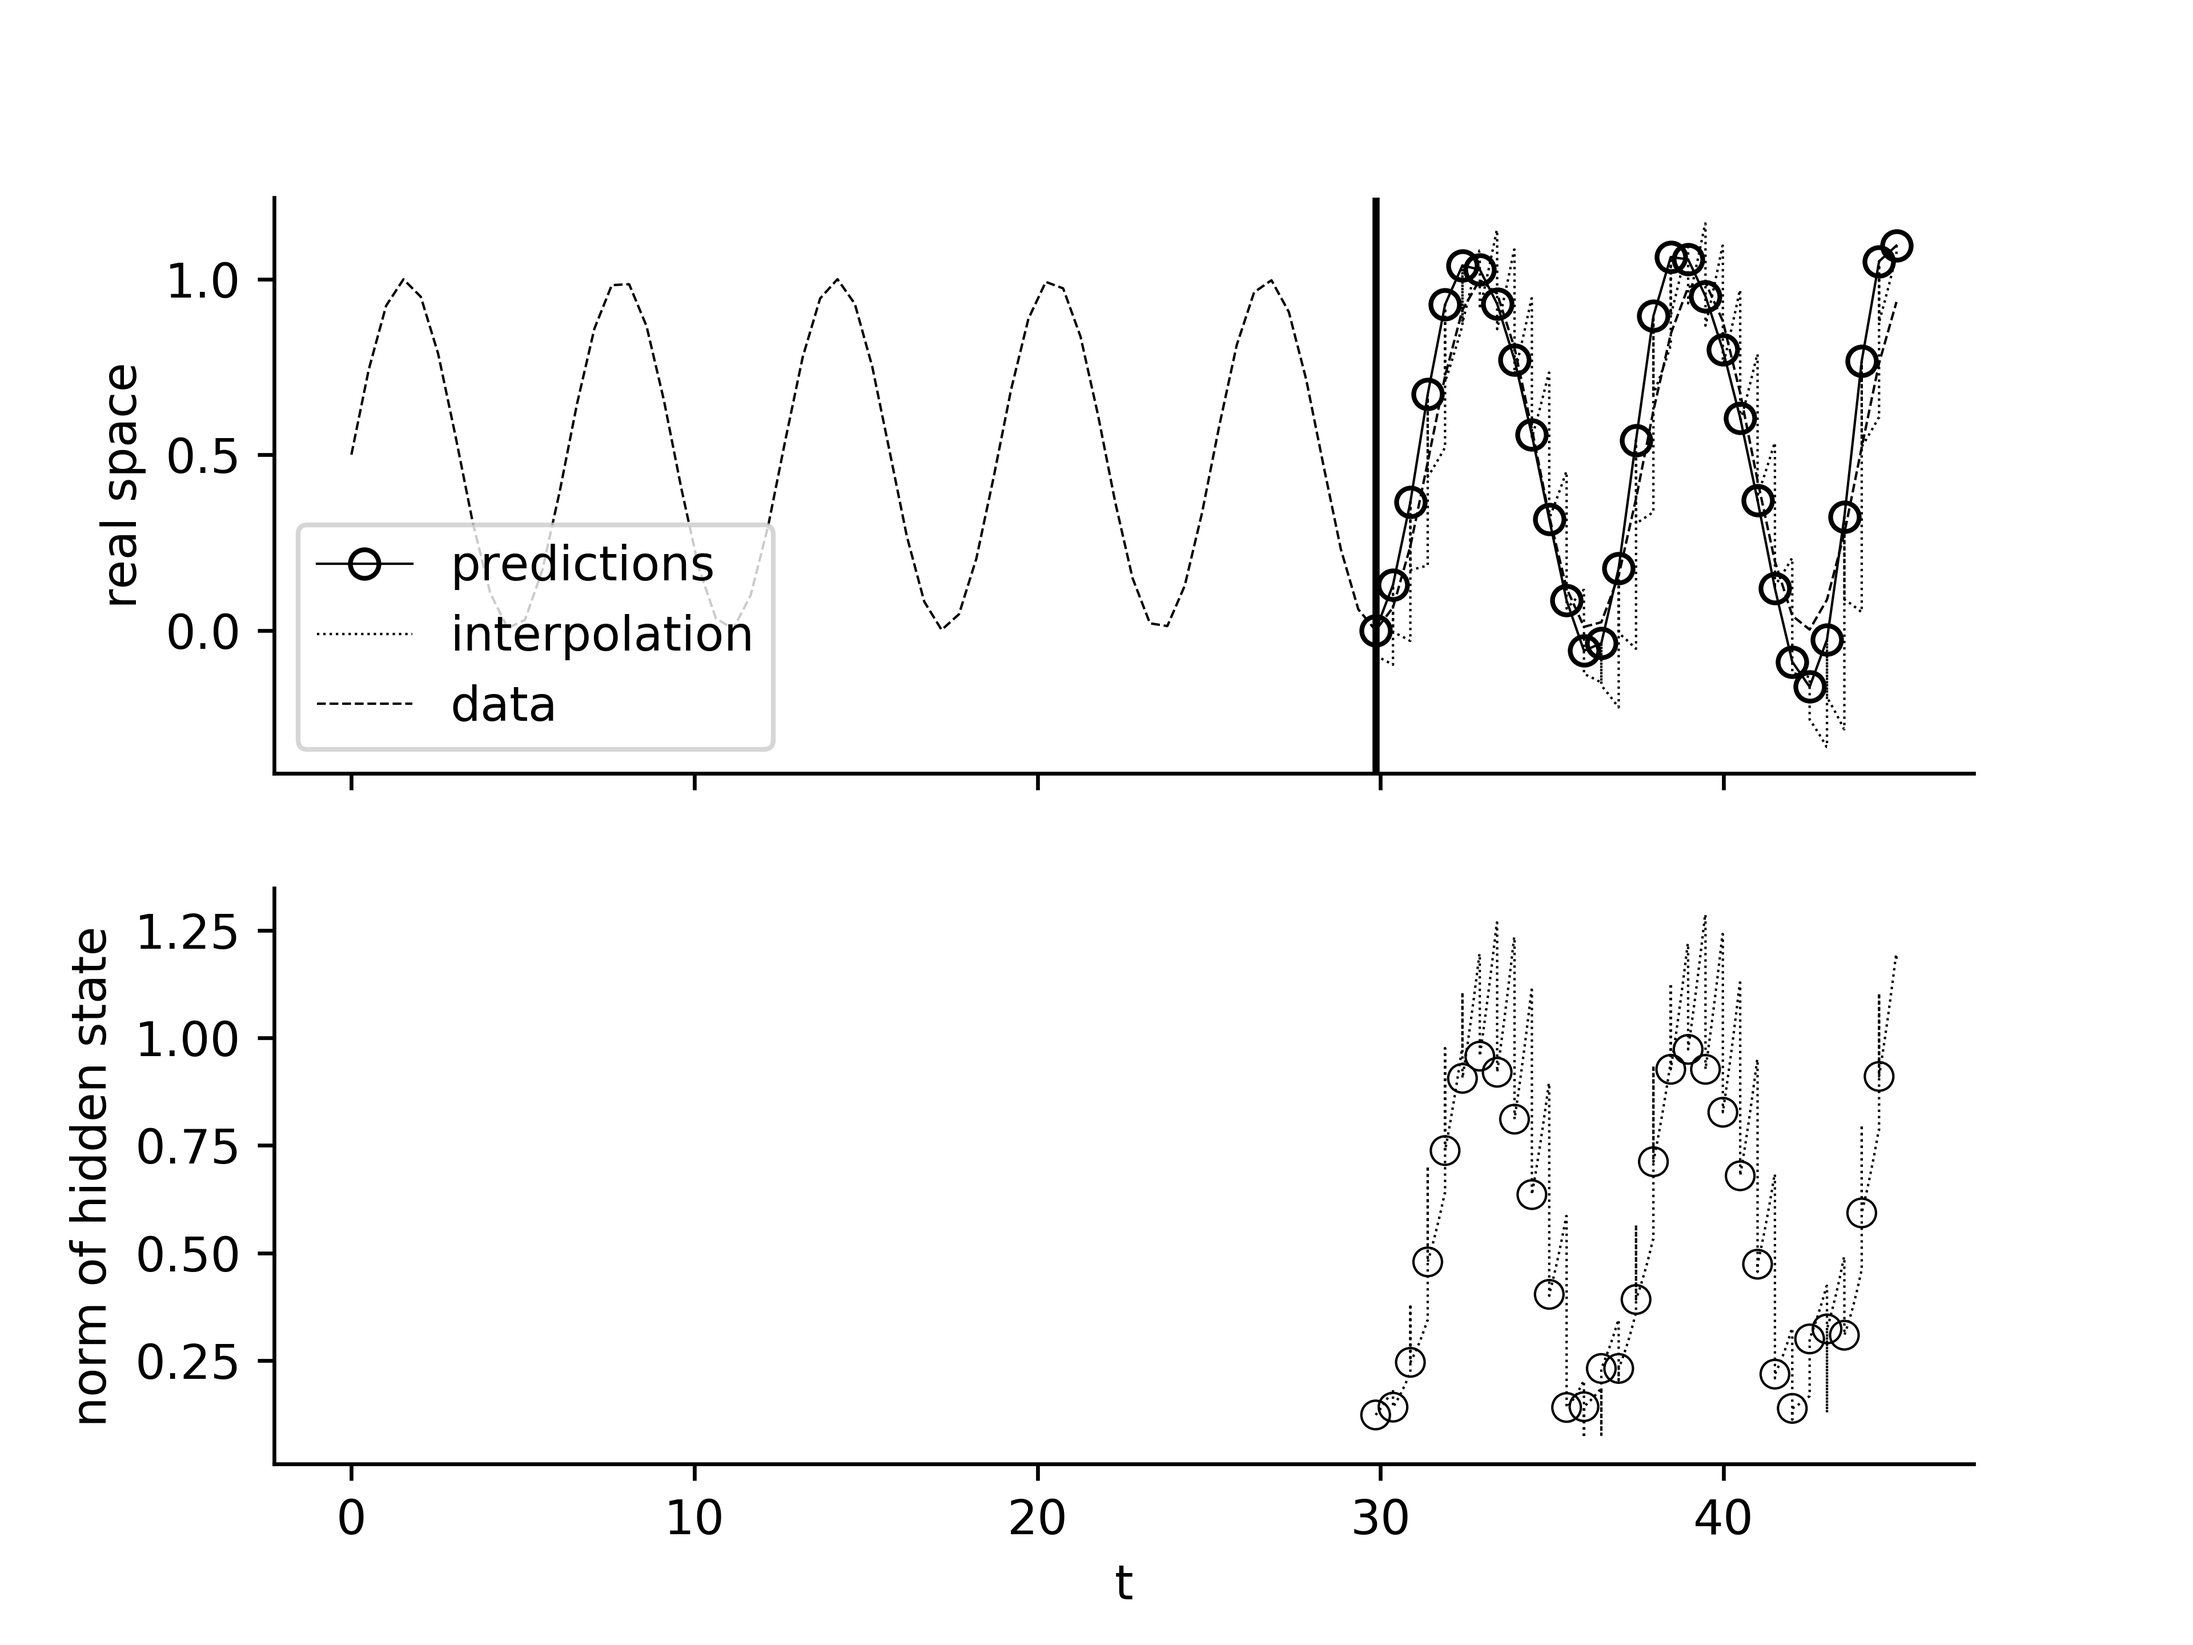
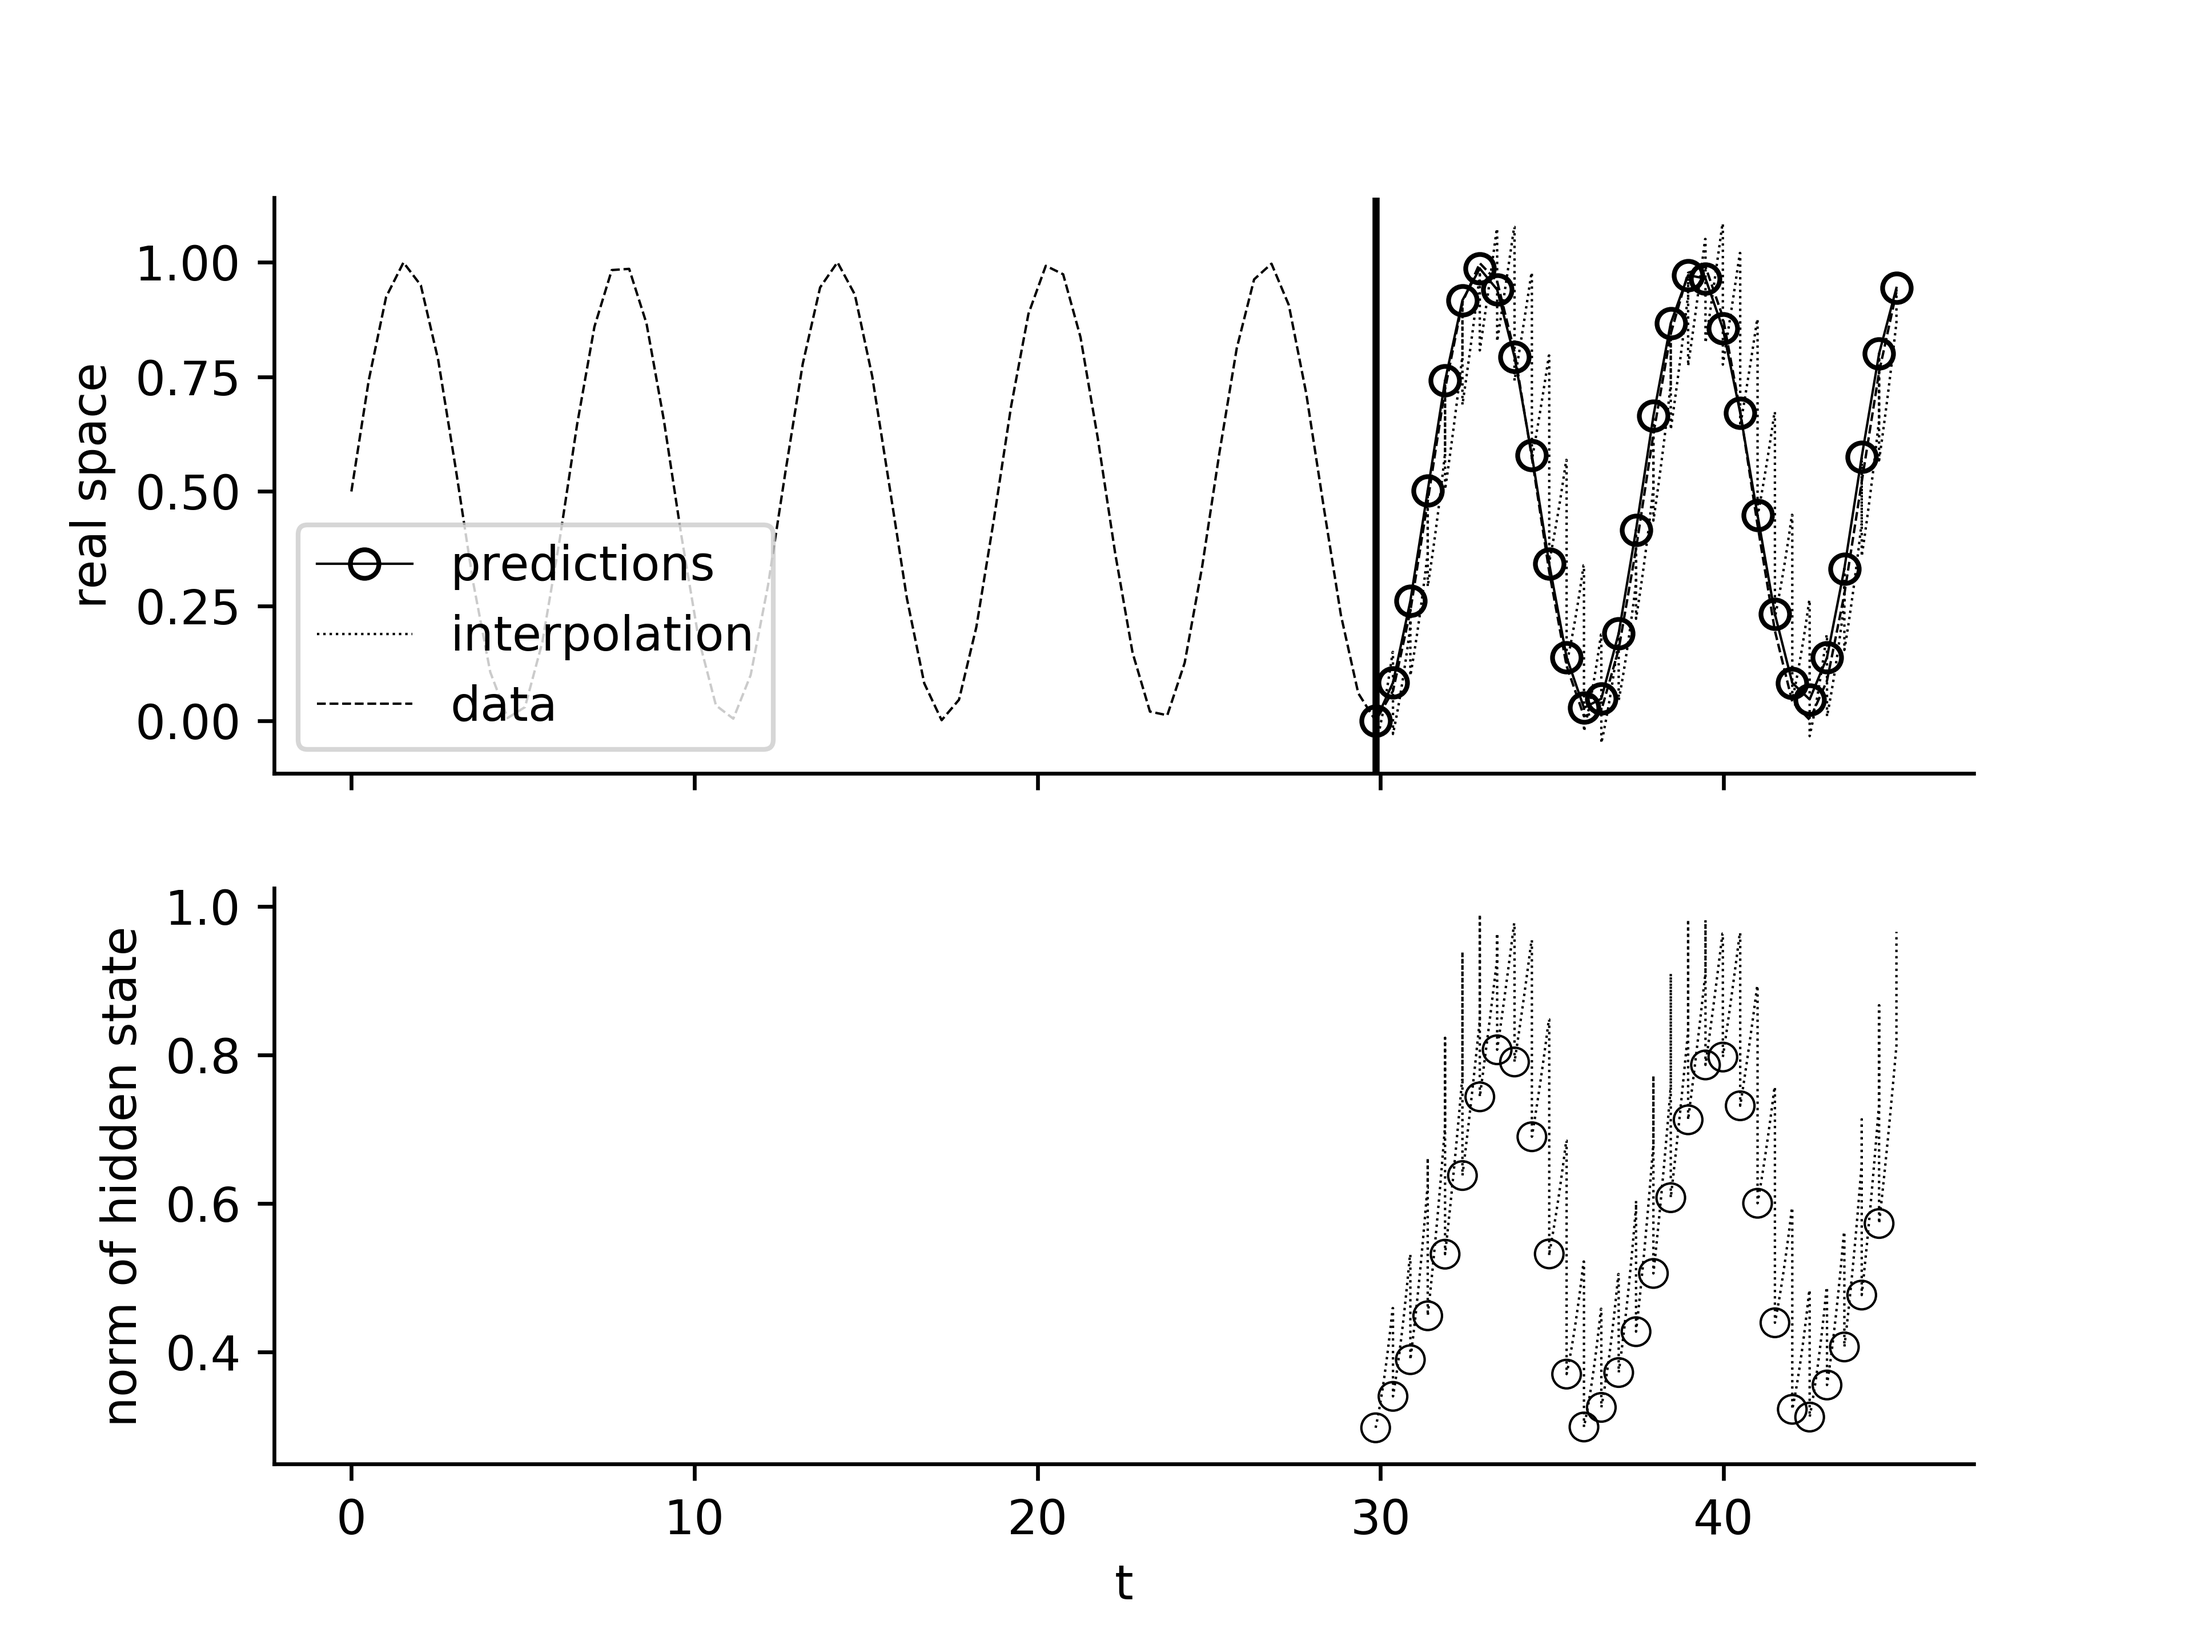
Added General ODE_Net

diff --git a/networks/ode_net.py b/networks/ode_net.py
@@ -5,6 +5,8 @@ from utils.linear import Linear
 from crossbar.crossbar import crossbar
 from utils.observer import Observer
 
+from torchdiffeq import odeint
+
 class Abstract_ODE_Net(nn.Module):
 
     def __init__(self, hidden_layer_size, N, cb, observer):
@@ -57,3 +59,14 @@ class Euler_Forward_ODE_Net(Abstract_ODE_Net):
 
     def observe(self, state):
         self.observer.on = state
+
+class ODE_Net(Abstract_ODE_Net):
+
+    def __init__(self, hidden_layer_size, N, cb, observer):
+        super(ODE_Net, self).__init__(hidden_layer_size, N, cb, observer)
+        self.integration_time = torch.tensor([0, 1]).float()
+
+    def forward(self, x0, t0, t1):
+        self.integration_time = self.integration_time.type_as(x0)
+        out = odeint(self.linear, x0, self.integration_time, 1e-3, 1e-3)
+        return out[1]

diff --git a/networks/node_rnn.py b/networks/node_rnn.py
@@ -5,7 +5,7 @@ import torch.nn as nn
 from utils.linear import Linear
 from crossbar.crossbar import crossbar
 from utils.observer import Observer
-from networks.ode_net import Euler_Forward_ODE_Net
+from networks.ode_net import *
 
 class NODE_RNN(nn.Module):
 

diff --git a/torchdiffeq/_impl/__init__.py b/torchdiffeq/_impl/__init__.py
@@ -1,0 +1,2 @@
+from .odeint import odeint, odeint_event
+from .adjoint import odeint_adjoint
